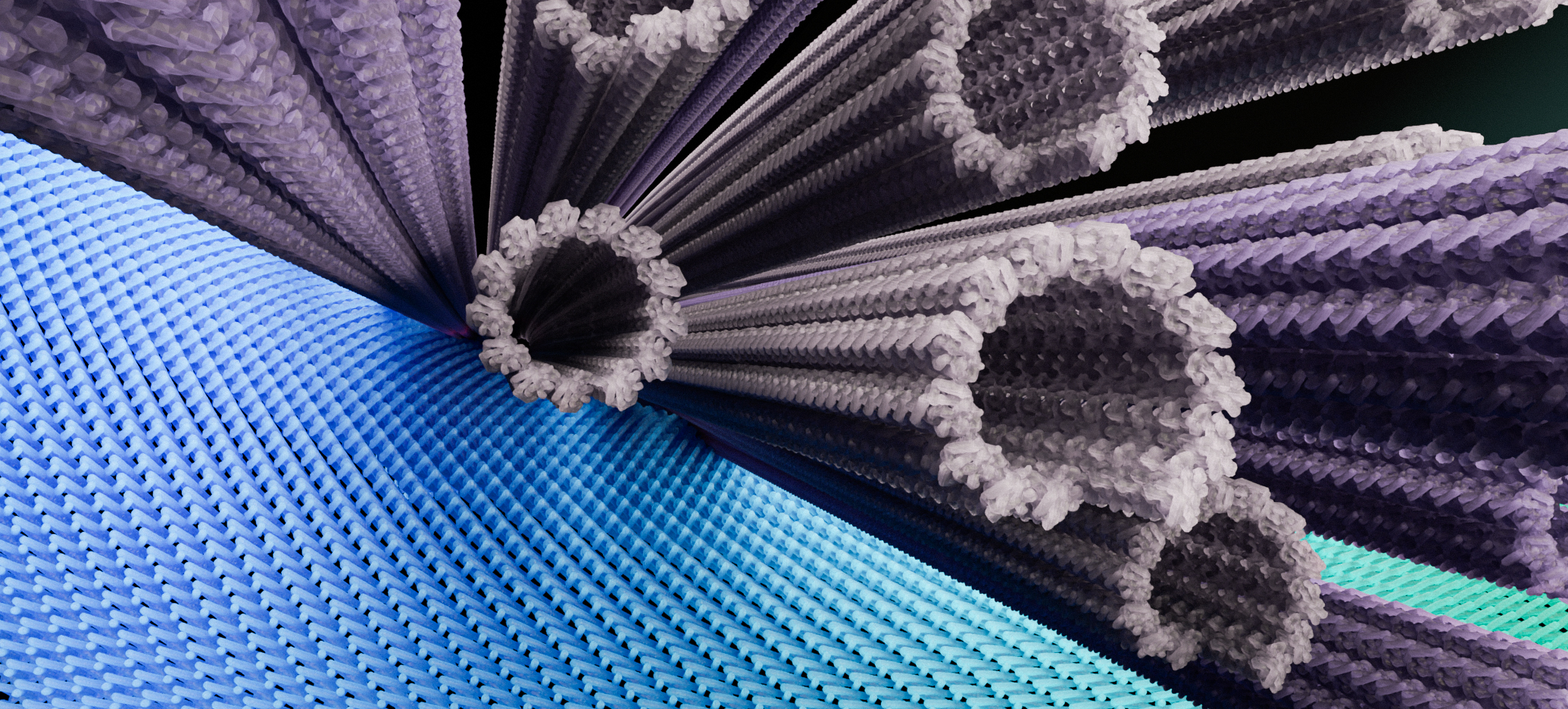
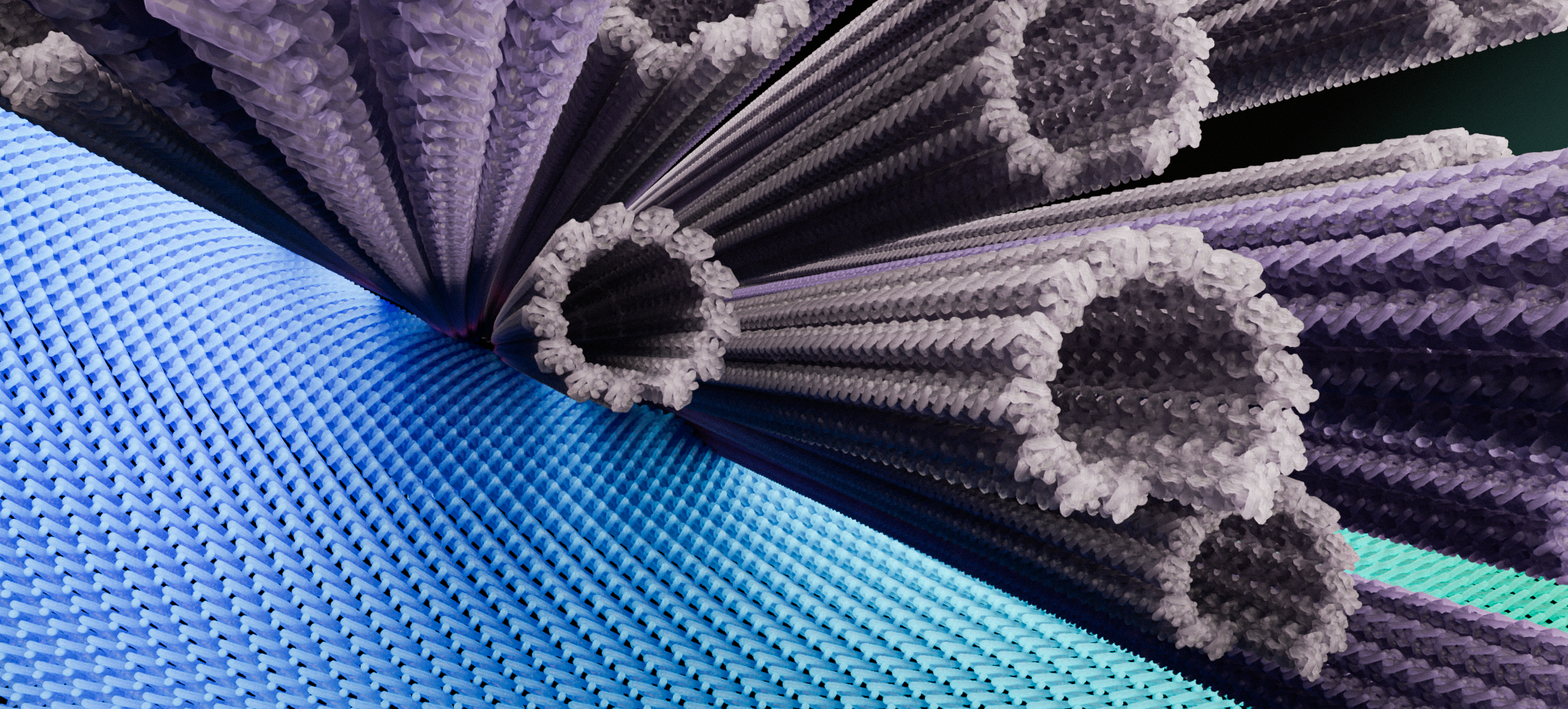
Updated animation

diff --git a/src/lib/home-fluidity.ts b/src/lib/home-fluidity.ts
@@ -12,8 +12,7 @@ export function initFluidHome(home: HTMLElement) {
   const scene = document.querySelector<HTMLElement>('[data-molecular-scene]');
   const poster = scene?.querySelector<HTMLImageElement>('[data-scene-poster]');
   const canvas = scene?.querySelector<HTMLCanvasElement>('[data-scene-canvas]');
-  const veil = scene?.querySelector<HTMLElement>('[data-scene-veil]');
-  const shade = scene?.querySelector<HTMLElement>('[data-scene-shade]');
+  const tint = scene?.querySelector<HTMLElement>('[data-scene-tint]');
   const heroCopy = home.querySelector<HTMLElement>('[data-hero-copy]');
   const heroFooter = home.querySelector<HTMLElement>('[data-hero-footer]');
   const openingSequence = home.querySelector<HTMLElement>('[data-opening-sequence]');
@@ -183,8 +182,7 @@ export function initFluidHome(home: HTMLElement) {
     const targetFrame = opening.frameProgress * Math.max(0, frames.length - 1);
     requestFrames(Math.round(targetFrame));
     const painted = paintFrame(frameMotion.advance(targetFrame, dt, scrolling));
-    if (shade) shade.style.opacity = String(opening.shadeOpacity);
-    if (veil) veil.style.opacity = String(opening.veilOpacity);
+    tint?.style.setProperty('--tint-position', `${(1 - opening.tintProgress) * 100}%`);
     if (heroCopy) {
       heroCopy.style.opacity = String(opening.titleOpacity);
       heroCopy.style.transform = reduced.matches ? '' : `translate3d(0, ${(1 - opening.titleOpacity) * -44}px, 0)`;

diff --git a/src/lib/home-opening.ts b/src/lib/home-opening.ts
@@ -1,19 +1,16 @@
 import { clamp, smoothstep } from './motion-math.ts';
 
-const readingFadeEnd = 0.98;
+const animationEnd = 0.98;
 
 // One reversible scroll timeline: title, molecular interlude, research arrival.
 export function homeOpening(progress: number, reducedMotion = false) {
   const t = clamp(progress);
   const titleOpacity = 1 - smoothstep(0.03, 0.22, t);
-  const frameProgress = clamp(progress / readingFadeEnd);
-  const reveal = smoothstep(0.06, 0.38, t);
-  const reading = smoothstep(0.54, readingFadeEnd, t);
+  const frameProgress = clamp(progress / animationEnd);
   return {
     titleOpacity: reducedMotion ? 1 : titleOpacity,
     frameProgress: reducedMotion ? 0 : frameProgress,
-    veilOpacity: reducedMotion ? 0.35 : 0.35 - reveal * 0.05 + reading * 0.05,
-    shadeOpacity: reducedMotion ? 1 : 1 - reveal + reading,
+    tintProgress: reducedMotion ? 1 : smoothstep(0, 1, frameProgress),
     researchOpacity: reducedMotion ? 1 : smoothstep(0.32, 0.52, t),
   };
 }
